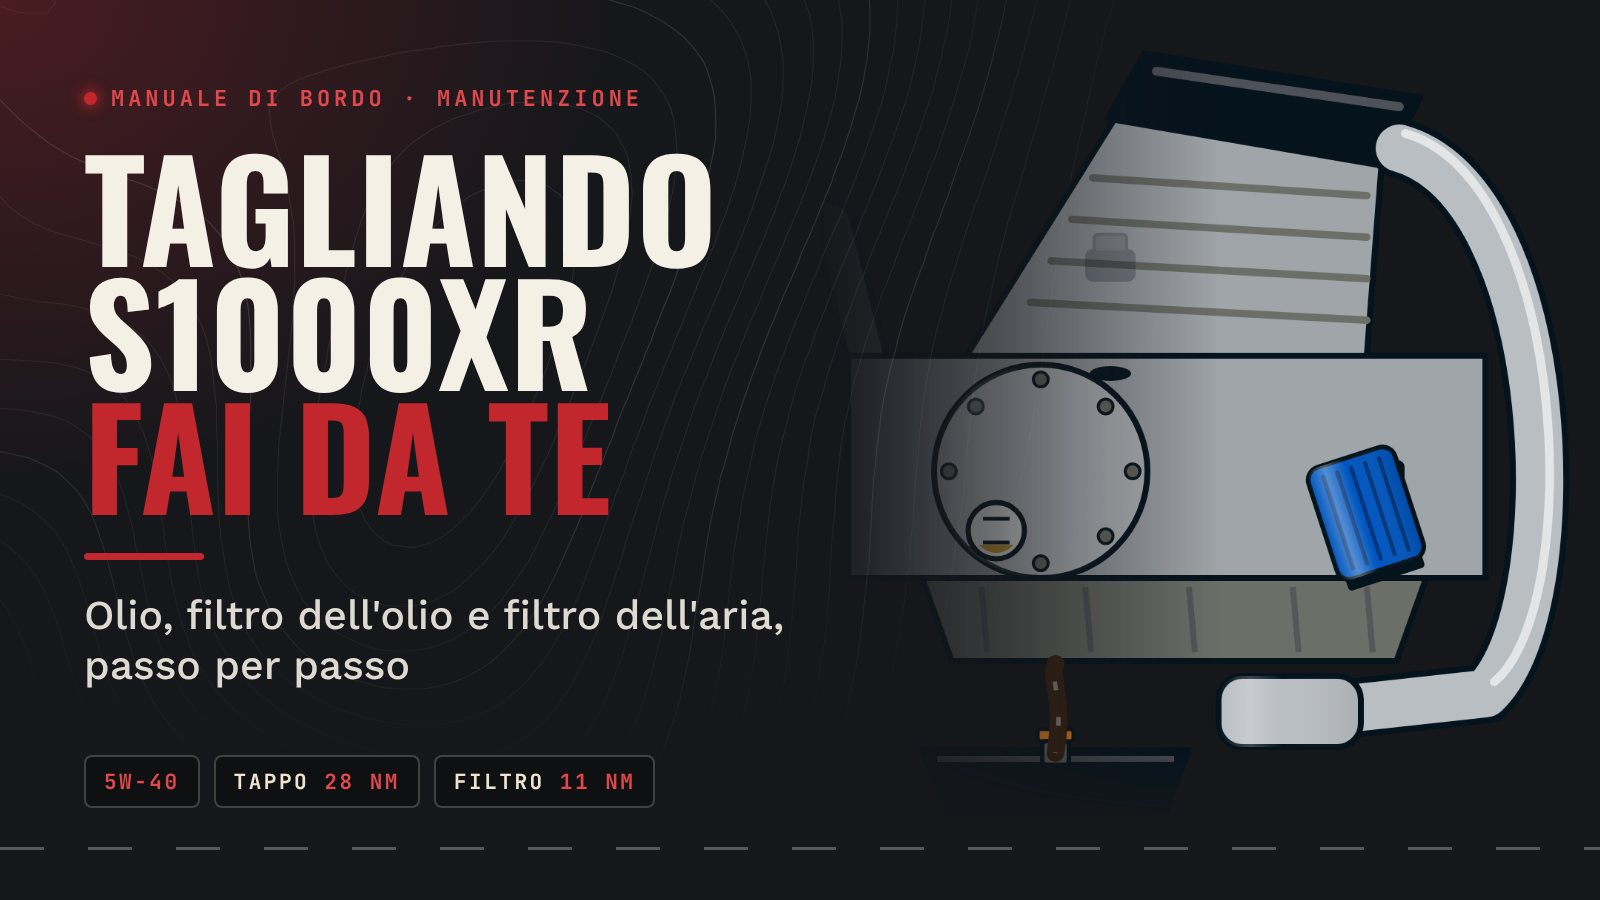
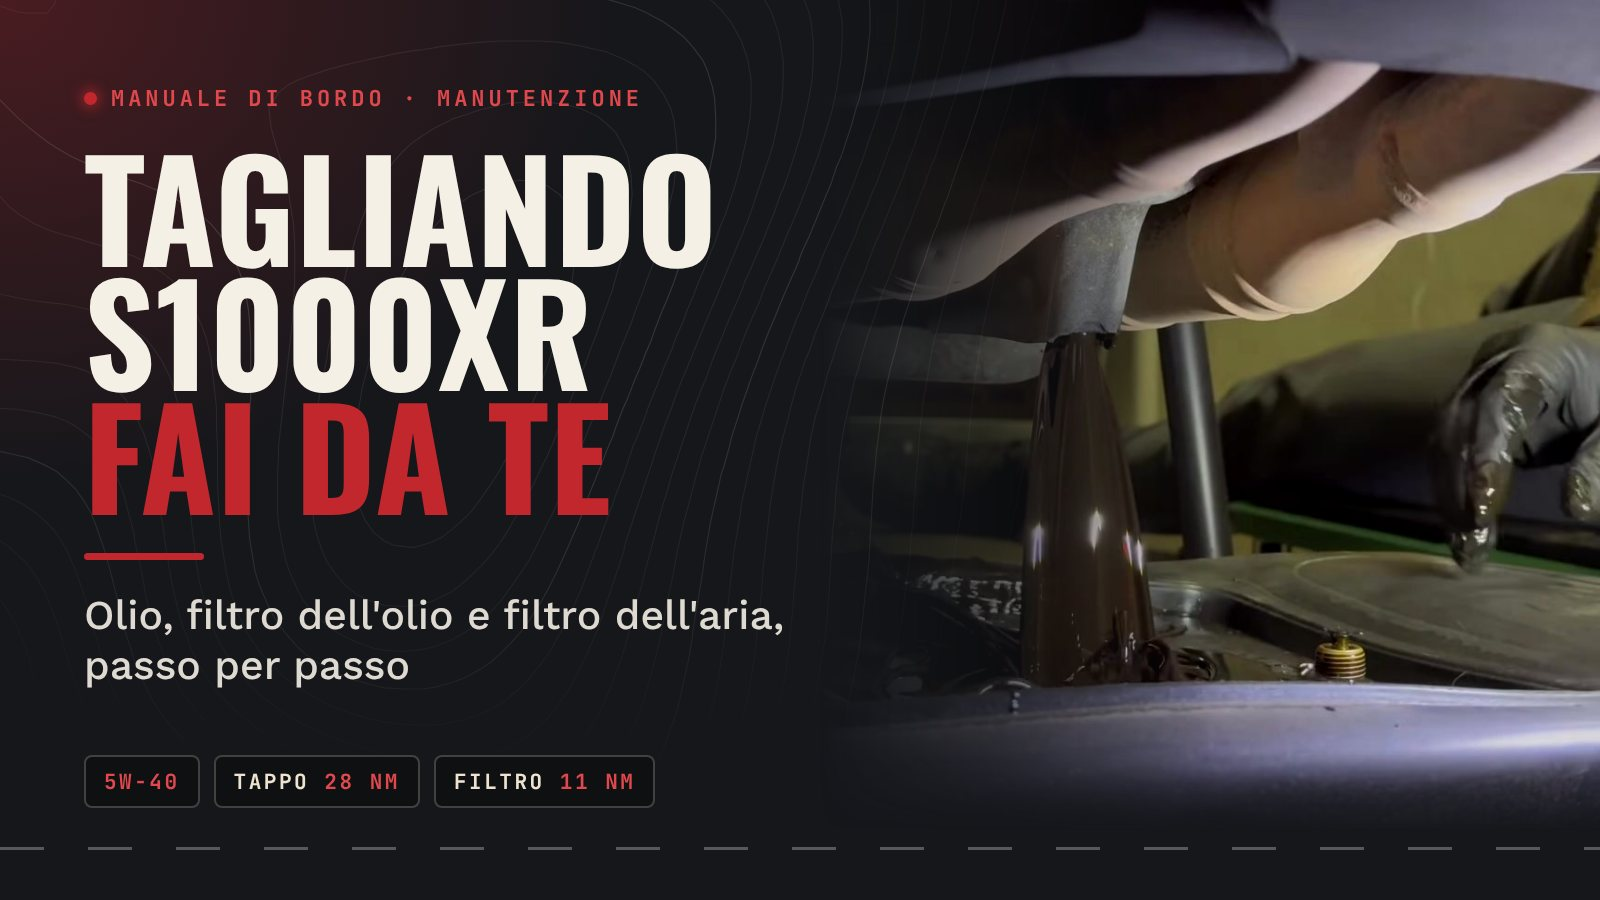
Guida tagliando: copertina dal reel di Angelo (olio che scende) e link al video
Claude-Session: https://claude.ai/code/session_01SSAYYosTJoXXm7cdUhpWa3

diff --git a/data/manuale-data.js b/data/manuale-data.js
@@ -510,7 +510,8 @@
         { tipo: "paragrafo", testo: "Il tagliando fatto in casa non spegne l'avviso del service sul cruscotto: per azzerarlo serve il concessionario oppure un tester di diagnosi come il GS-911. L'olio vecchio e il filtro non vanno nel cassonetto: portali all'isola ecologica o da un'officina, che li smaltisce." },
         { tipo: "sottotitolo", testo: "In breve" },
         { tipo: "paragrafo", testo: "Olio SAE 5W-40 API SJ / JASO MA2, circa 4 litri con il filtro. Filtro BMW 11425B70298, a mano più 11 Nm. Tappo di scarico Torx T50 con rondella nuova, 28 Nm. Livello a motore caldo, moto dritta, tra MIN e MAX. Filtro dell'aria BMW 13729444643. Tutto ogni 10.000 km o una volta l'anno." },
-        { tipo: "paragrafo", testo: "Tu il tagliando lo fai da solo o lo lasci alla concessionaria? Se hai un trucco per non sporcare i collettori, scrivimelo." }
+        { tipo: "paragrafo", testo: "Tu il tagliando lo fai da solo o lo lasci alla concessionaria? Se hai un trucco per non sporcare i collettori, scrivimelo." },
+        { tipo: "link", label: "Guarda il video del mio tagliando", url: "https://www.instagram.com/reel/Dd6uiaXoSXY/" }
       ]
     }
   ];
